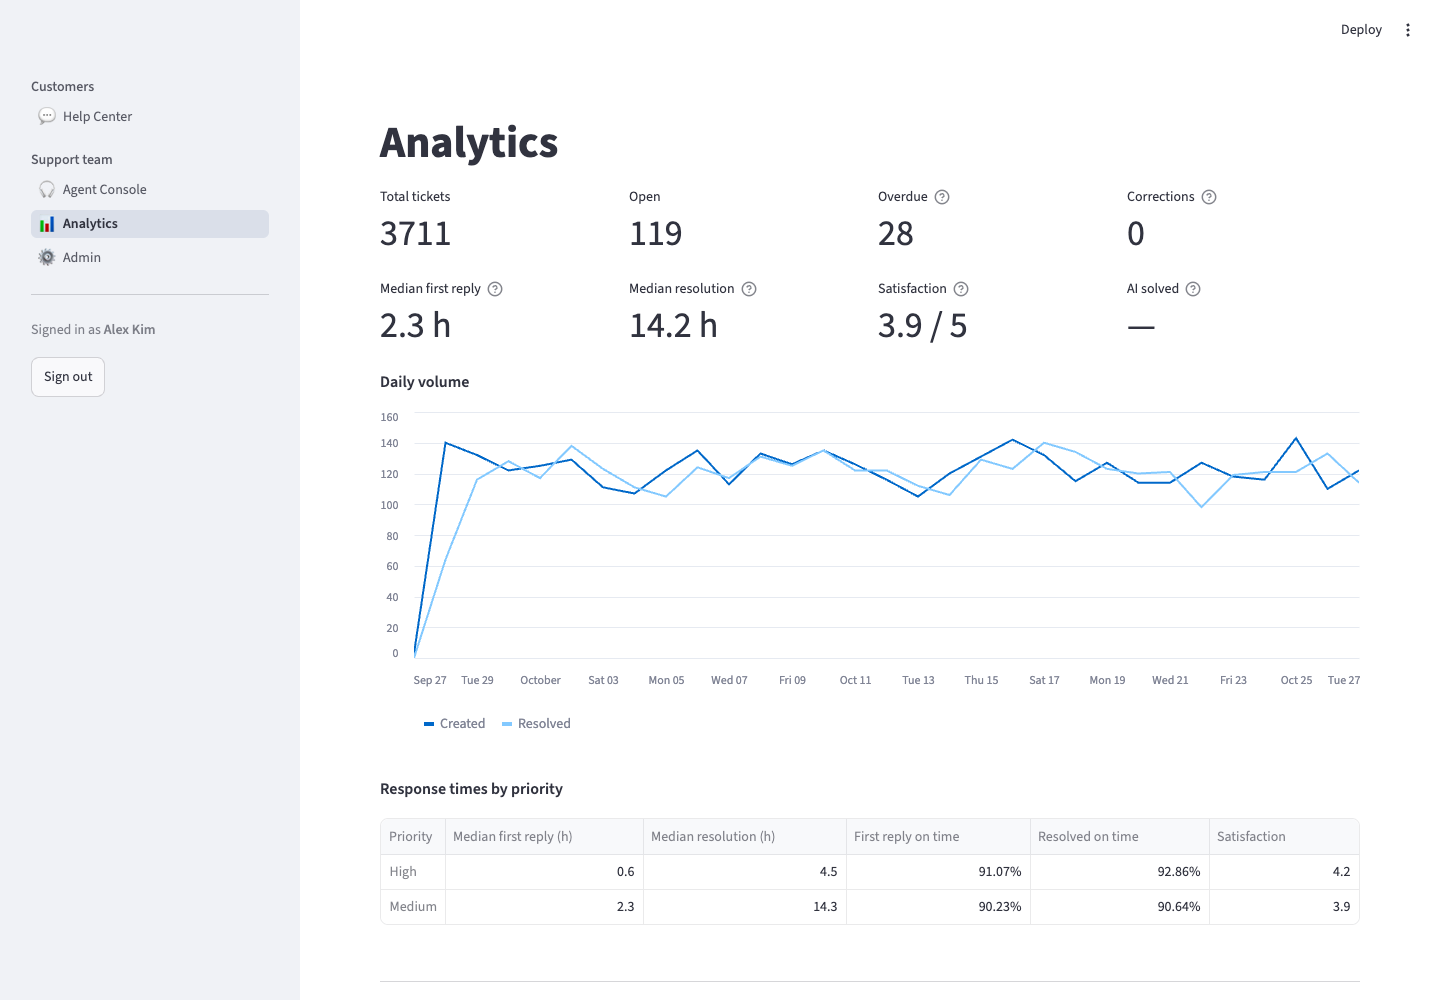
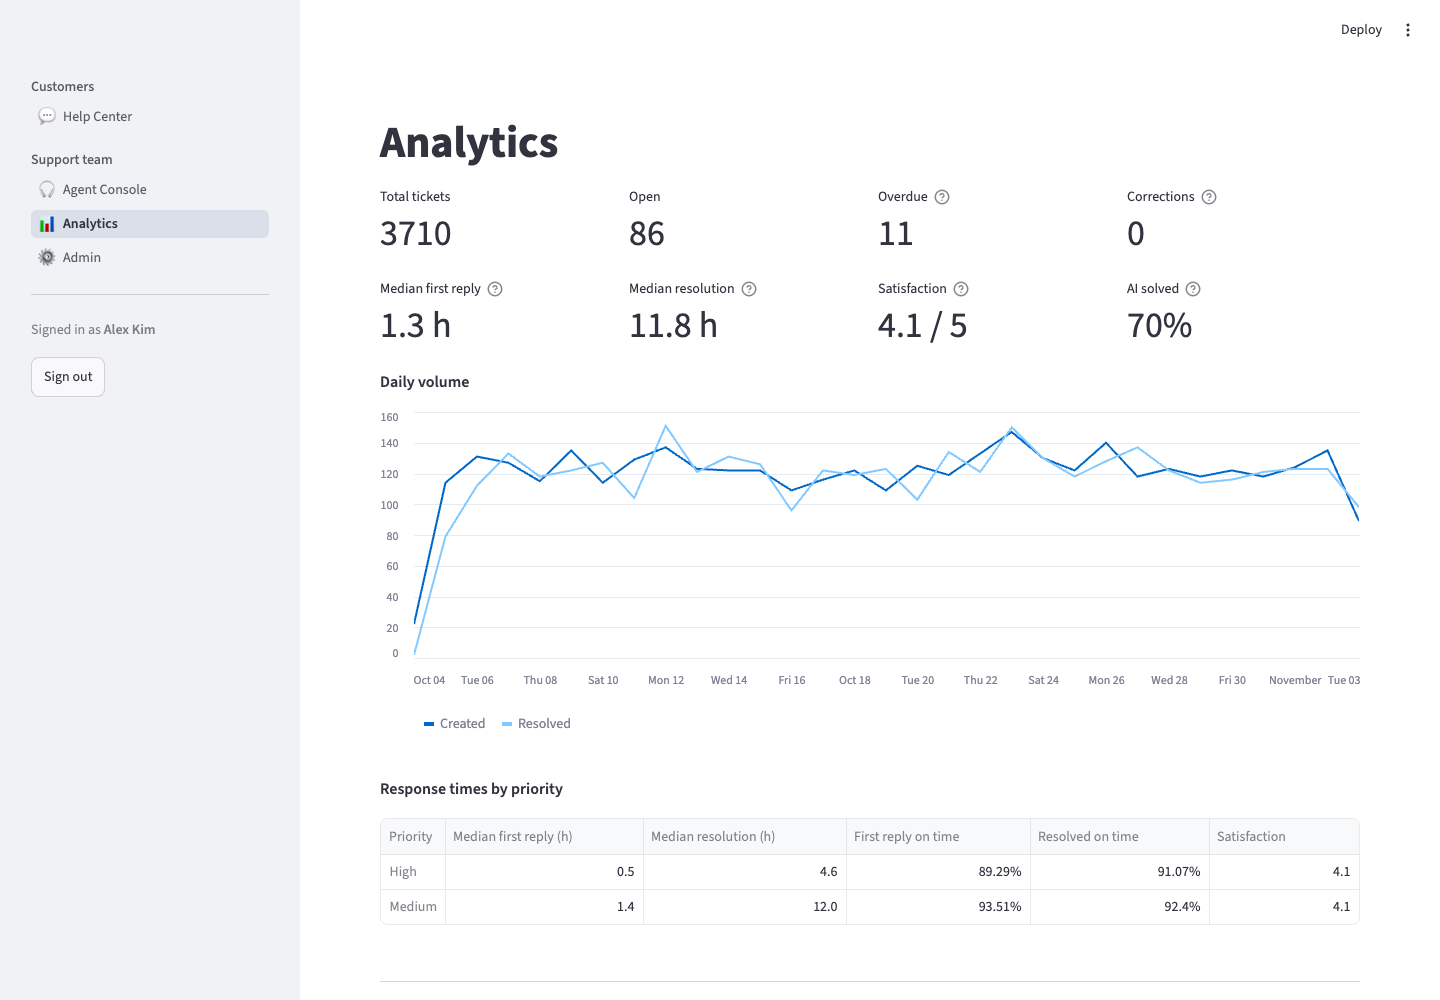
Get the demo ready to deploy: AI history, lighter install, safe Admin
- Demo history: about a third of the tickets the AI Solver may answer got
  an AI reply first (~70% confirmed solved, the rest escalated or
  pending), so Analytics shows the AI solved rate from the start.
- requirements.txt pulls CPU-only PyTorch, keeping the multi-GB CUDA
  build off free hosts; CI now installs exactly requirements.txt.
- Admin training is off in the open demo (no AGENT_PASSWORD).
- Help Center notes that an external AI provider may use messages.
- Replace deprecated use_container_width; refresh Analytics screenshot.

diff --git a/modules/store.py b/modules/store.py
@@ -161,7 +161,11 @@ def seed_from_processed(processed_tickets: list[dict], db_path: str = DB_PATH, d
                         seed: int = 42) -> int:
     """Load the processed demo tickets (from tickets.csv) if the store is empty, with a made-up but realistic
     history over the last `days`: older tickets were answered and resolved by the department's agent (mostly
-    within target, some late, some rated), recent ones are still in the queue. Returns rows added."""
+    within target, some late, some rated), recent ones are still in the queue. About a third of the tickets the
+    AI Solver may answer got an AI reply first: most were confirmed solved, some escalated to an agent, the
+    newest still await the customer's verdict. Returns rows added."""
+    from modules.processor import auto_solvable  # lazy: the store itself doesn't need the ML stack
+
     rng = random.Random(seed)
     end = datetime.datetime.now().replace(microsecond=0)
     agent_for = {dept: name for name, dept in DEMO_AGENTS}
@@ -174,6 +178,39 @@ def seed_from_processed(processed_tickets: list[dict], db_path: str = DB_PATH, d
             first_h, resolve_h = SLA_HOURS.get(triage["priority"], SLA_HOURS["Medium"])
             late = rng.random() < 0.15
             created = end - datetime.timedelta(hours=rng.uniform(0, days * 24))
+            ticket_id = str(t["id"])
+            name = t.get("customer") or t.get("customer_name")
+            response = t.get("response")
+            has_response = isinstance(response, str) and response.strip()
+
+            ai_at = created + datetime.timedelta(minutes=rng.uniform(0.3, 2))
+            outcome = None
+            if has_response and auto_solvable(triage) and rng.random() < 0.35 and ai_at <= end:
+                verdict_at = ai_at + datetime.timedelta(hours=rng.uniform(0.1, 6))
+                outcome = "pending" if verdict_at > end else ("solved" if rng.random() < 0.7 else "escalated")
+                _insert_ticket(conn, ticket_id, name, None, None, str(t["email_content"]), triage, "web",
+                               "Open", iso(created), tier=t.get("tier"))
+                conn.execute("INSERT INTO messages (ticket_id, author_type, author, body, created_at) "
+                             "VALUES (?, 'ai', 'Support AI', ?, ?)", (ticket_id, response.strip(), iso(ai_at)))
+                conn.executemany(
+                    "INSERT INTO events (ticket_id, actor, type, detail, created_at) VALUES (?, ?, ?, ?, ?)",
+                    [(ticket_id, "AI", "llm", "solver", iso(ai_at)), (ticket_id, "AI", "message", "ai replied", iso(ai_at))]
+                    + ([(ticket_id, "Customer", "ai_outcome", f"pending → {outcome}", iso(verdict_at))]
+                       if outcome != "pending" else []))
+                if outcome != "escalated":
+                    solved = outcome == "solved"
+                    csat = rng.choice([5, 5, 4, 5, 3]) if solved and rng.random() < 0.4 else None
+                    conn.execute("UPDATE tickets SET status = ?, ai_outcome = ?, first_response_at = ?, resolved_at = ?, "
+                                 "updated_at = ?, csat = ? WHERE id = ?",
+                                 ("Resolved" if solved else "Waiting on Customer", outcome, iso(ai_at),
+                                  iso(verdict_at) if solved else None, iso(verdict_at if solved else ai_at), csat,
+                                  ticket_id))
+                    continue
+                conn.execute("INSERT INTO messages (ticket_id, author_type, author, body, created_at) VALUES "
+                             "(?, 'system', 'Customer', 'Customer said the AI answer did not solve the problem.', ?)",
+                             (ticket_id, iso(verdict_at)))
+                created = verdict_at  # an agent takes over from here, as with any new ticket
+
             replied = created + datetime.timedelta(hours=rng.uniform(0.05, 1) * first_h * (2.5 if late else 1))
             resolved = replied + datetime.timedelta(hours=rng.uniform(0.1, 1) * (resolve_h - first_h) * (2 if late else 1))
             if resolved <= end and rng.random() < 0.99:  # a few old tickets got stuck: overdue demo
@@ -182,21 +219,22 @@ def seed_from_processed(processed_tickets: list[dict], db_path: str = DB_PATH, d
                 status = rng.choice(["In Progress", "Waiting on Customer"])
             else:
                 status, replied = "Open", None
-            ticket_id = str(t["id"])
-            name = t.get("customer") or t.get("customer_name")
-            _insert_ticket(conn, ticket_id, name, None, None, str(t["email_content"]), triage, "email",
-                           status, iso(created), tier=t.get("tier"))
+            if outcome is None:
+                _insert_ticket(conn, ticket_id, name, None, None, str(t["email_content"]), triage, "email",
+                               status, iso(created), tier=t.get("tier"))
+            else:  # escalated: the ticket row exists; the AI reply already was the first response
+                conn.execute("UPDATE tickets SET status = ?, ai_outcome = 'escalated', first_response_at = ?, "
+                             "updated_at = ? WHERE id = ?", (status, iso(ai_at), iso(created), ticket_id))
             if replied is None:
                 continue
             agent = agent_for.get(triage["category"], DEMO_AGENTS[-1][0])
-            response = t.get("response")
-            body = response if isinstance(response, str) and response.strip() else \
+            body = response if has_response else \
                 f"Hi {name or 'there'}, thanks for contacting us. Our {triage['category']} team is looking into this."
             csat = None
             if status == "Resolved" and rng.random() < 0.4:
                 csat = rng.choice([3, 2, 1, 3, 4] if late else [5, 5, 4, 4, 3])
-            conn.execute("UPDATE tickets SET assignee = ?, first_response_at = ?, resolved_at = ?, updated_at = ?, "
-                         "csat = ? WHERE id = ?",
+            conn.execute("UPDATE tickets SET assignee = ?, first_response_at = COALESCE(first_response_at, ?), "
+                         "resolved_at = ?, updated_at = ?, csat = ? WHERE id = ?",
                          (agent, iso(replied), iso(resolved) if status == "Resolved" else None,
                           iso(resolved if status == "Resolved" else replied), csat, ticket_id))
             conn.executemany(

diff --git a/app_pages/admin.py b/app_pages/admin.py
@@ -1,4 +1,5 @@
 import json
+import os
 import threading
 
 import pandas as pd
@@ -15,9 +16,6 @@ st.subheader("Model Training & Version Control")
 st.write("Tải lên dữ liệu mới để huấn luyện mô hình. Hệ thống sẽ tự động lưu phiên bản. "
          "Phiên bản mới được dùng cho các vé mới.")
 
-uploaded_file = st.file_uploader("Upload dataset mới (CSV, JSON, PDF, DOCX)", type=["csv", "json", "pdf", "docx"])
-
-
 def start_background_training(path):
     if is_training():
         st.warning("Một lần train khác đang chạy. Vui lòng đợi nó hoàn tất (xem Terminal).")
@@ -30,20 +28,25 @@ def start_background_training(path):
     thread.start()
 
 
-col_train, col_retrain = st.columns(2)
-with col_train:
-    if st.button("Train New Model", type="primary"):
-        if uploaded_file:
-            # Lưu file được upload vào folder data
-            temp_path = f"data/uploaded_train_{uploaded_file.name}"
-            with open(temp_path, "wb") as f:
-                f.write(uploaded_file.getbuffer())
-            start_background_training(temp_path)
-        else:
-            st.error("Vui lòng chọn file CSV trước khi Train!")
-with col_retrain:
-    if st.button(f"Retrain with {len(corrections)} corrections"):
-        start_background_training("data/tickets.csv")
+# Open demo (no AGENT_PASSWORD): anyone can sign in, so don't let visitors retrain the model
+if not os.getenv("AGENT_PASSWORD"):
+    st.info("Training is turned off in this public demo. Set `AGENT_PASSWORD` to enable it.")
+else:
+    uploaded_file = st.file_uploader("Upload dataset mới (CSV, JSON, PDF, DOCX)", type=["csv", "json", "pdf", "docx"])
+    col_train, col_retrain = st.columns(2)
+    with col_train:
+        if st.button("Train New Model", type="primary"):
+            if uploaded_file:
+                # Lưu file được upload vào folder data
+                temp_path = f"data/uploaded_train_{uploaded_file.name}"
+                with open(temp_path, "wb") as f:
+                    f.write(uploaded_file.getbuffer())
+                start_background_training(temp_path)
+            else:
+                st.error("Vui lòng chọn file CSV trước khi Train!")
+    with col_retrain:
+        if st.button(f"Retrain with {len(corrections)} corrections"):
+            start_background_training("data/tickets.csv")
 
 st.divider()
 st.subheader("Model Versions (Lịch sử huấn luyện)")
@@ -56,6 +59,6 @@ try:
     versions = meta.get("versions", {})
     if versions:
         v_df = [{"Version": k, "Held-out Accuracy": f"{v['accuracy']*100:.2f}%" if v.get('accuracy') is not None else "N/A", "Training Rows": v.get("training_rows", 0), "Created At": v.get("created_at", "")[:19].replace("T", " ")} for k, v in versions.items()]
-        st.dataframe(pd.DataFrame(v_df).sort_values("Created At", ascending=False), use_container_width=True)
+        st.dataframe(pd.DataFrame(v_df).sort_values("Created At", ascending=False), width="stretch")
 except FileNotFoundError:
     st.info("Chưa có phiên bản model nào được lưu trữ.")

diff --git a/test_store.py b/test_store.py
@@ -31,14 +31,17 @@ assert store.get_messages("T1", db)[0]["author_type"] == "customer"
 # Seeded history over 30 days is consistent: replies after creation, resolution after the reply
 hist_db = os.path.join(tempfile.mkdtemp(), "hist.db")
 store.init_db(hist_db)
-many = [{**processed[i % 2], "id": f"H{i}", "response": "Here is how to fix it." if i % 3 else float("nan")}
-        for i in range(300)]
+solvable = {**processed[0], "routing_validation": {"priority": "Medium", "requires_human_review": False}}
+many = [{**[processed[0], processed[1], solvable][i % 3], "id": f"H{i}",
+         "response": "Here is how to fix it." if i % 4 else float("nan")} for i in range(600)]
 store.seed_from_processed(many, hist_db)
 hist = store.list_tickets(db_path=hist_db)
 statuses = {t["status"] for t in hist}
 assert {"Open", "Resolved"} <= statuses, statuses
 for t in hist:
     msgs = store.get_messages(t["id"], hist_db)
+    if t["ai_outcome"]:  # checked below
+        continue
     if t["status"] == "Open":
         assert t["first_response_at"] is None and len(msgs) == 1
         continue
@@ -51,6 +54,21 @@ for t in hist:
 breached = [store.sla(t)["first_response_breached"] for t in hist if t["first_response_at"]]
 assert 0 < sum(breached) < len(breached) / 2, sum(breached)  # mostly on time, some late
 assert any(t["csat"] for t in hist)
+
+# Some AI-solvable tickets were answered by the AI first; its reply is the first response
+ai = [t for t in hist if t["ai_outcome"]]
+assert {t["ai_outcome"] for t in ai} >= {"solved", "escalated"}, {t["ai_outcome"] for t in ai}
+for t in ai:
+    msgs = store.get_messages(t["id"], hist_db)
+    assert t["channel"] == "web" and msgs[1]["author_type"] == "ai" and t["first_response_at"] == msgs[1]["created_at"]
+    if t["ai_outcome"] == "solved":
+        assert t["status"] == "Resolved" and t["assignee"] is None
+    elif t["ai_outcome"] == "escalated":
+        assert msgs[2]["author_type"] == "system"
+        assert t["status"] == "Open" or msgs[-1]["author_type"] == "agent"
+    else:
+        assert t["status"] == "Waiting on Customer"
+assert all(t["ai_outcome"] is None for t in hist if t["priority"] == "High")  # never for urgent tickets
 
 # Queue: priority first, filters
 tid = store.create_ticket("Cy", "cy@example.com", "App down", "  The app crashes  ", {**triage, "priority": "Low"}, db_path=db)

diff --git a/app_pages/analytics.py b/app_pages/analytics.py
@@ -78,11 +78,11 @@ with col1:
     st.write("**Tickets by department**")
     fig = px.pie(df, names="category", hole=0.4, color_discrete_sequence=px.colors.qualitative.Pastel)
     fig.update_traces(hovertemplate="<b>%{label}</b><br>Tickets: %{value}<extra></extra>")
-    st.plotly_chart(fig, use_container_width=True)
+    st.plotly_chart(fig, width="stretch")
 with col2:
     st.write("**Status by department**")
     st.plotly_chart(px.histogram(df, y="category", color="status", barmode="stack",
-                                 category_orders={"status": store.STATUSES}), use_container_width=True)
+                                 category_orders={"status": store.STATUSES}), width="stretch")
 
 st.write("**AI confidence by department**")
-st.plotly_chart(px.box(df, x="category", y="confidence", color="category"), use_container_width=True)
+st.plotly_chart(px.box(df, x="category", y="confidence", color="category"), width="stretch")

diff --git a/app_pages/customer_portal.py b/app_pages/customer_portal.py
@@ -35,6 +35,8 @@ if view != VIEWS[1]:
         email = c2.text_input("Email")
         subject = st.text_input("Subject")
         content = st.text_area("How can we help?", height=150, max_chars=common.MAX_MESSAGE_CHARS)
+        st.caption("Demo site: your message may be answered by an AI model from an external provider, which may "
+                   "use it to improve its models. Please don't include personal or sensitive information.")
         submitted = st.form_submit_button("Submit request", type="primary")
     if submitted:
         if not (name.strip() and content.strip()):

diff --git a/README.md b/README.md
@@ -73,7 +73,7 @@ Known gaps: Bitext and the Technical tickets are template-based, so held-out acc
 
 ## 🚀 Deploy (Streamlit Community Cloud)
 1. Push the repo to GitHub, then at [share.streamlit.io](https://share.streamlit.io) create an app from it with main file `ui.py` and Python 3.12.
-2. In the app's **Secrets**, paste the contents of [`.streamlit/secrets.toml.example`](.streamlit/secrets.toml.example) with your own LLM key (top-level secrets become environment variables). Leave out `AGENT_PASSWORD` for an open demo where visitors can sign in as any agent.
+2. In the app's **Secrets**, paste the contents of [`.streamlit/secrets.toml.example`](.streamlit/secrets.toml.example) with your own LLM key (top-level secrets become environment variables). Leave out `AGENT_PASSWORD` for an open demo where visitors can sign in as any agent (model training on the Admin page is then turned off).
 3. The first boot trains the model, downloads the embedding model and seeds the demo database (a few minutes). The file system is not persistent, so the demo resets when the app restarts.
 
 **Public-demo limits** (counted in the database, so reloading the page doesn't reset them): `LLM_DAILY_LIMIT` LLM calls per 24 h across the AI Solver and agent drafts (default 100), `TICKETS_PER_EMAIL_HOURLY` (3) and `TICKETS_HOURLY` (60) Help Center submissions, and 4,000 characters per message. Every LLM call is written to the ticket's activity log.
@@ -98,7 +98,7 @@ Known gaps: Bitext and the Technical tickets are template-based, so held-out acc
    export SMTP_USER=support@yourcompany.com SMTP_PASSWORD='your-app-password'
    ```
    Port 465 uses SSL; other ports use STARTTLS unless `SMTP_STARTTLS=false`.
-3. **Launch UI**: `streamlit run ui.py`. The first start trains a model if none exists and fills `data/support.db` with the triaged demo tickets, given a generated 30-day history (agent replies from the dataset, mostly on time, some late, some rated) so the metrics have something to show. Delete the file to reset the demo.
+3. **Launch UI**: `streamlit run ui.py`. The first start trains a model if none exists and fills `data/support.db` with the triaged demo tickets, given a generated 30-day history (agent replies from the dataset, mostly on time, some late, some rated; about 1 in 4 tickets answered by the AI Solver first, ~70% of those confirmed solved) so the metrics have something to show. Delete the file to reset the demo.
 4. **Retrain**: In the Admin Dashboard tab, upload a new dataset or click **Retrain with corrections**.
 5. **Calibrate**: Adjust `CONFIDENCE_THRESHOLD` (human review) and `AUTO_SOLVE_CONFIDENCE` (AI Solver) in `modules/processor.py` to balance automation against human workload.
 6. **Check** (also run by CI): `python test_routing.py` (routing and sentiment), `python test_store.py` (ticket store) and `python test_features.py` (training, feedback, Vector DB, email; runs in a temp folder).
